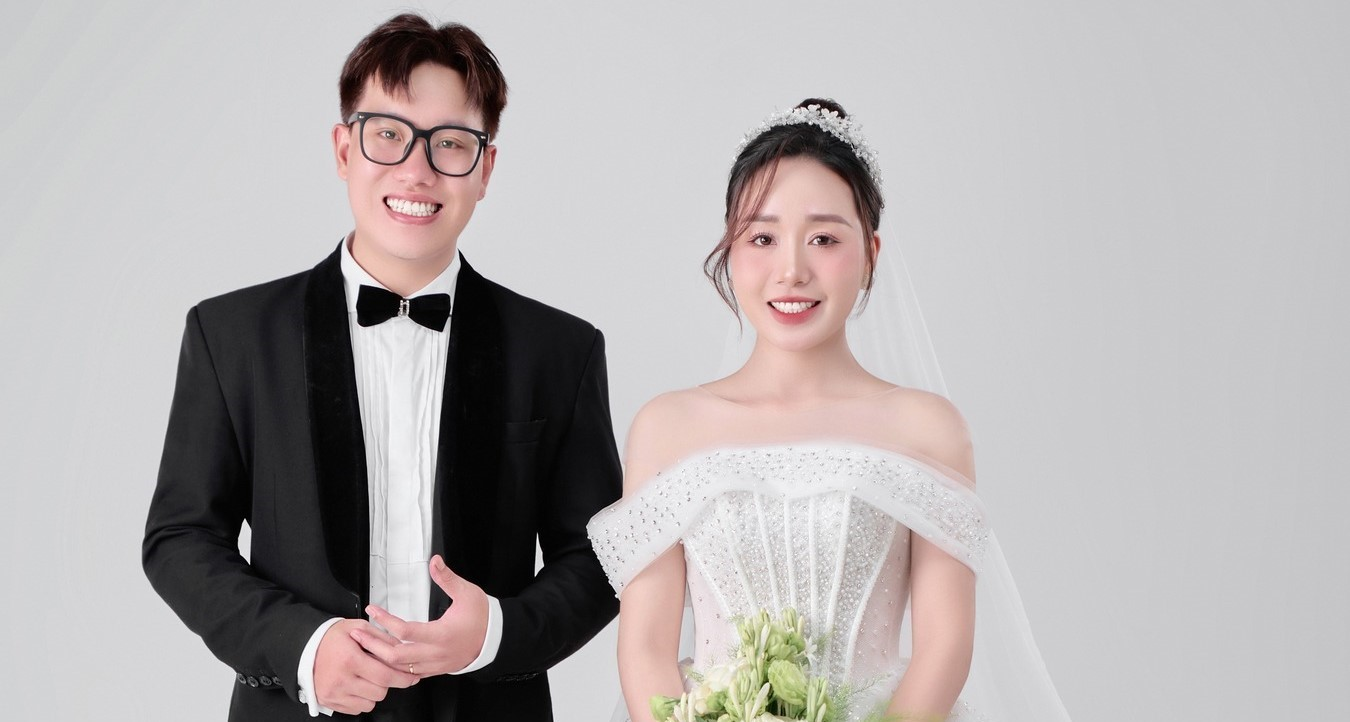
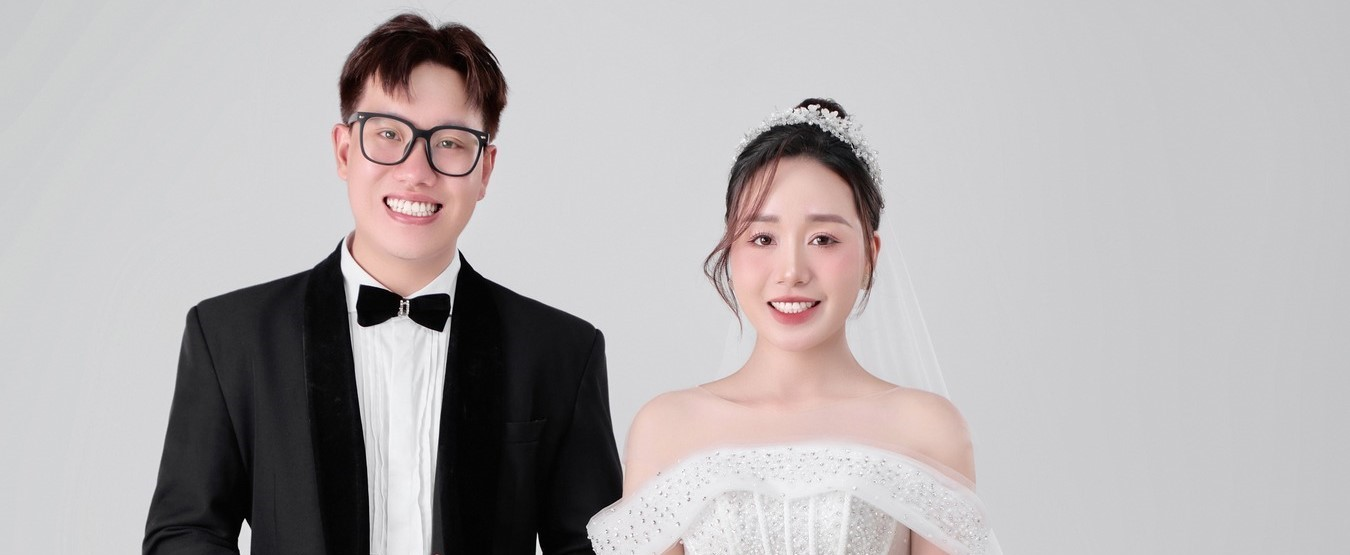
add file

Changed region(s): [[0.0933, 0.0, 0.7467, 1.0], [0.7156, 0.7964, 0.7467, 0.827], [0.3733, 0.7658, 0.4044, 0.7964]]

diff --git a/index.html b/index.html
@@ -6,8 +6,12 @@
   <meta name="viewport" content="width=device-width, initial-scale=1">
   <meta name="author" content="irstheme">
 
-  <title> Jolly - Wedding &amp; Wedding Planner HTML Template </title>
+  <title> 💕 Minh Thúy ❤ Thanh Tùng 💕 </title>
   <link rel="stylesheet" href="https://fonts.googleapis.com/css2?family=Alex+Brush&display=swap">
+  <link href="https://fonts.googleapis.com/css2?family=Dancing+Script:wght@400..700&display=swap" rel="stylesheet">
+  <link href="https://fonts.googleapis.com/css2?family=Sansita+Swashed:wght@300..900&display=swap" rel="stylesheet">
+  <link href="https://fonts.googleapis.com/css2?family=Lobster&display=swap" rel="stylesheet">
+  <link href="https://fonts.googleapis.com/css2?family=Sacramento&display=swap" rel="stylesheet">
   <link href="css/themify-icons.css" rel="stylesheet">
   <link href="css/flaticon.css" rel="stylesheet">
   <link href="css/bootstrap.min.css" rel="stylesheet">
@@ -52,11 +56,11 @@
   <div class="topbar">
     <div class="container">
       <div class="row">
-        <div class="col col-xs-12">
+        <div class="col">
           <div class="site-logo">
             <a href="index.html">
-              <h1>Thanh Tùng &amp; Minh Thúy</h1>
-              <span>Just Married</span>
+              <h1 style=" font-family: 'Sacramento', cursive; font-size: 70px">Welcome</h1>
+              <span>To the Wedding of</span>
             </a>
           </div>
         </div>
@@ -73,10 +77,10 @@
     <div class="slide-main-text">
       <div class="container">
         <div class="slide-title">
-          <h2 style="color: #34ebd9">Thanh Tùng &amp; Minh Thúy</h2>
+          <h2 style="color: #34ebd9; margin-top: 50px; padding-bottom: 170px; font-family: 'Sacramento', cursive; !important;">Thanh Tùng &amp; Minh Thúy</h2>
         </div>
         <div class="wedding-date">
-          <span>14 July 2024</span>
+          <h4 style="color: #333333">14 July 2024</h4>
         </div>
         <div class="clearfix"></div>
         <div class="count-down-clock" style="margin-top: 70px">
@@ -127,7 +131,7 @@
             <h2>Happy Wedding Day</h2>
             <span></span>
             <br>
-            <h3 style="font-size: 25px">Thanh Tùng ❤ Minh Thúy</h3>
+            <h3 style="font-size: 25px; font-family: 'Sansita Swashed', system-ui;">Thanh Tùng ❤ Minh Thúy</h3>
             <p>Trăm triệu hạt mưa rơi, không hạt nào rơi nhầm chỗ.</p>
             <p>Tất cả người ta từng gặp, không một người nào là ngẫu nhiên.</p>
             <p>Hôn lễ mặc dủ chỉ diễn ra chốc lát, nhưng tình yêu là trọn đời. </p>
@@ -154,8 +158,10 @@
             <div class="grid">
               <h3>Tư gia Nhà Trai</h3>
               <div><span class="parent">Ông bà:</span></div>
-              <div><span class="parent">Đinh Văn Đê</span></div>
-              <div style="margin-bottom: 10px" class="hr-custom"><span class="parent">Nguyễn Thị Thoa</span></div>
+              <div><span class="parent"><b>Đinh Văn Đê</b></span></div>
+              <div style="margin-bottom: 10px" class="hr-custom"><span class="parent"><b>Nguyễn Thị Thoa</b></span></div>
+              <br>
+              <div><span class="parent">Thời gian tiệc: <i>17:30 PM Ngày 13 tháng 7 năm 2024</i></span></div>
               <br>
               <p>Số nhà 119, ngõ 403 - Đường Ỷ Lan, Thôn Đặng - Xã Đặng Xá - Huyện Gia Lâm - Hà Nội</p>
               <p class="phone">Phone: 0362366611</p>
@@ -166,8 +172,10 @@
             <div class="grid">
               <h3>Tư gia Nhà Gái</h3>
               <div><span class="parent">Ông bà:</span></div>
-              <div><span class="parent">Phan Văn Liên</span></div>
-              <div style="margin-bottom: 10px" class="hr-custom"><span class="parent">Bùi Thị Nga</span></div>
+              <div><span class="parent"><b>Phan Văn Liên</b></span></div>
+              <div style="margin-bottom: 10px" class="hr-custom"><span class="parent"><b>Bùi Thị Nga</b></span></div>
+              <br>
+              <div><span class="parent" style="">Thời gian tiệc: <i>10:30 PM Ngày 14 tháng 7 năm 2024</i></span></div>
               <br>
               <p>Khu 3, Xã Lương Lỗ - Huyện Thanh Ba, Tỉnh Phú Thọ</p>
               <p class="phone">Phone: 0396597437</p>
@@ -191,7 +199,7 @@
       <div class="col col-lg-6 col-lg-offset-3 col-md-8 col-md-offset-2 col-sm-10 col-sm-offset-1">
         <div class="section-title">
           <h2>Happy Couple</h2>
-          <p>Recently cut out of an illustrated magazine and housed in a nice, gilded frame. It showed a lady fitted out with a fur hat</p>
+          <p>Đôi nét về chúng mình</p>
         </div>
       </div>
     </div>
@@ -204,10 +212,10 @@
             </div>
             <div class="details">
               <div class="inner">
-                <h2>Minh Thúy</h2>
+                <h2 style="font-family: 'Sansita Swashed', system-ui;">Minh Thúy</h2>
                 <p>Cô dâu là một cô gái nhỏ nhắn, xinh xắn, dễ thương, hướng ngoại. Thích nấu ăn, du lịch khám phá văn hóa, con người, ẩm thực trên mọi miền tổ quốc</p>
                 <ul class="social-links">
-                  <li><a href="#"><i class="ti-facebook"></i></a></li>
+                  <li><a href="https://www.facebook.com/minhthuy0907" target="_blank"><i class="ti-facebook"></i></a></li>
                 </ul>
               </div>
             </div>
@@ -215,11 +223,11 @@
           <div class="couple-row last-row clearfix">
             <div class="details">
               <div class="inner">
-                <h2>Thanh Tùng</h2>
+                <h2 style="font-family: 'Sansita Swashed', system-ui;">Thanh Tùng</h2>
 <!--                <h4>Hi Dear, I am Blit Jhon.</h4>-->
                 <p>Một chàng trai khôi ngô tuấn tú, cở mở hòa đồng, hướng nội, nhát gái, mang trong mình niềm đam mê tất tận với ẩm thực và công nghệ. Thích chơi các môn thể thao trong nhà: Cờ vua, cầu lông, billiard, ...</p>
                 <ul class="social-links">
-                  <li><a href="#"><i class="ti-facebook"></i></a></li>
+                  <li><a href="https://www.facebook.com/tungcnttp/" target="_blank"><i class="ti-facebook"></i></a></li>
                 </ul>
               </div>
             </div>
@@ -241,8 +249,9 @@
     <div class="row">
       <div class="col col-lg-6 col-lg-offset-3 col-md-8 col-md-offset-2 col-sm-10 col-sm-offset-1">
         <div class="section-title">
-          <h2>Câu chuyện tình yêu của chúng mình</h2>
-          <p>Recently cut out of an illustrated magazine and housed in a nice, gilded frame. It showed a lady fitted out with a fur hat</p>
+          <h2>
+            Our love story</h2>
+          <p>Hôn nhân là hành trình một chặng đường dài, nó được xây dựng từ tình yêu, sự thấu hiểu cảm thông thay đổi của chúng mình</p>
         </div>
       </div>
     </div>
@@ -252,7 +261,7 @@
           <ul>
             <li>
               <div class="details">
-                <h3>Buổi gặp đầu tiên</h3>
+                <h2 style="font-family: 'Dancing Script', cursive; !important;">Buổi gặp đầu tiên</h2>
                 <span class="date">Tháng 4 2023</span>
                 <p>Chúng tôi gặp nhau khi đang công tác tại Evnfinance, quen nhau qua buổi tiệc "CHÀO HÈ" của khối</p>
               </div>
@@ -265,14 +274,14 @@
                 <img src="images/img-2.png" alt="">
               </div>
               <div class="details">
-                <h3>Buổi hẹn hò đầu tiên</h3>
+                <h2 style="font-family: 'Dancing Script', cursive; !important;">Buổi hẹn hò đầu tiên</h2>
                 <span class="date">20 tháng 5 năm 2023</span>
                 <p>Qua một thời gian gặp mặt, trò chuyện thì chúng tôi đã chính thức hẹm hò vào ngày 20 tháng 5 năm 2023.</p>
               </div>
             </li>
             <li>
               <div class="details">
-                <h3>Cầu hôn</h3>
+                <h2 style="font-family: 'Dancing Script', cursive; !important;">Cầu hôn</h2>
                 <span class="date">21 tháng 5 năm 2024</span>
                 <p>Sau một thời gian hẹn hò, tìm hiểu nhau thì Tùng đã nói lời cầu hôn để 2 đứa chúng thức bước sang một giai đoạn mới, yêu thương nhau đến hết cuộc đời.</p>
               </div>
@@ -285,7 +294,7 @@
                 <img src="images/img-4.png" alt="">
               </div>
               <div class="details">
-                <h3>Lễ thành hôn</h3>
+                <h2 style="font-family: 'Dancing Script', cursive; !important;">Lễ thành hôn</h2>
                 <span class="date">14 tháng 07 2024</span>
                 <p>Chúng tôi tiến hành hôn lễ tại tư gia của hai nhà, cùng với sự góp mặt của bạn bè và gia đình 2 bên</p>
               </div>
@@ -305,8 +314,8 @@
     <div class="row">
       <div class="col col-lg-6 col-lg-offset-3 col-md-8 col-md-offset-2 col-sm-10 col-sm-offset-1">
         <div class="section-title">
-          <h2>Một số khoảnh khắc của chúng mình</h2>
-          <p>Recently cut out of an illustrated magazine and housed in a nice, gilded frame. It showed a lady fitted out with a fur hat</p>
+          <h2>SOME OF OUR MOMENTS</h2>
+          <p>Có nhiều cách để thể hiện và bày tỏ tình yêu. Thế nhưng, những khoảnh khắc cùng nhau, lắng nghe, yêu thương và tin tưởng luôn là điểm chung mà bất cứ cặp đôi yêu nhau nào cũng có. Và tình yêu chúng mình cũng vậy, được nuôi dưỡng từ những khoảnh khắc cùng nhau.</p>
         </div>
       </div>
     </div>
@@ -390,16 +399,16 @@
 <footer class="site-footer footer-style-1">
   <div class="inner">
     <div class="couple-pic">
-      <img src="images/footer-couple-pic.jpg" alt="">
+      <img src="images/TIN04446.jpg" alt="">
     </div>
     <h2>Thank you</h2>
-    <ul class="social-links">
-      <li><a href="#"><i class="ti-facebook"></i></a></li>
-      <li><a href="#"><i class="ti-twitter-alt"></i></a></li>
-      <li><a href="#"><i class="ti-linkedin"></i></a></li>
-      <li><a href="#"><i class="ti-pinterest"></i></a></li>
-    </ul>
-    <p>Copyright 2019, Made with love by <a href="http://themeforest.net/user/blue_design">blue design</a></p>
+<!--    <ul class="social-links">-->
+<!--      <li><a href="#"><i class="ti-facebook"></i></a></li>-->
+<!--      <li><a href="#"><i class="ti-twitter-alt"></i></a></li>-->
+<!--      <li><a href="#"><i class="ti-linkedin"></i></a></li>-->
+<!--      <li><a href="#"><i class="ti-pinterest"></i></a></li>-->
+<!--    </ul>-->
+    <p>Copyright 2024, Made with love by Thanh Tung & Minh Thuy</a></p>
   </div>
 </footer>
 <!-- end site-footer -->

diff --git a/css/style.css b/css/style.css
@@ -1737,7 +1737,7 @@ img {
 .header-style-1 .topbar {
   background: #fff;
   text-align: center;
-  padding: 50px 0 30px;
+  padding: 30px 0 30px;
   border-bottom: 1px solid #efefef;
   position: relative;
   z-index: 1;
@@ -1755,9 +1755,6 @@ img {
 
 .header-style-1 .site-logo h1 {
   font-family: "aphroditeslimtextregular";
-  font-size: 30px;
-  font-size: 2rem;
-  margin: -0.12em 0 0.5em;
 }
 
 @media (max-width: 991px) {
@@ -4014,7 +4011,7 @@ img {
 }
 
 .event-section .top-area {
-  background: url("../images/banner3.jpg") center center/cover no-repeat local;
+  background: url("../images/TIN04009-123.jpg") top center/cover no-repeat local;
   text-align: center;
   width: 100%;
   height: 60%;
@@ -4119,6 +4116,7 @@ img {
   text-align: center;
   -webkit-box-shadow: 0px 4px 13.65px 7.35px rgba(178, 201, 211, 0.18);
   box-shadow: 0px 4px 13.65px 7.35px rgba(178, 201, 211, 0.18);
+  border-radius: 25px;
 }
 
 @media (max-width: 991px) {
@@ -4213,8 +4211,8 @@ event-section .event-grids .hr-custom:before {
 }
 
 .event-section .event-grids .parent {
-  font-size: 16px;
-  font-size: 1.06667rem;
+  font-size: 18px;
+  /*font-size: 1.06667rem;*/
   color: #202a41;
 }
 
